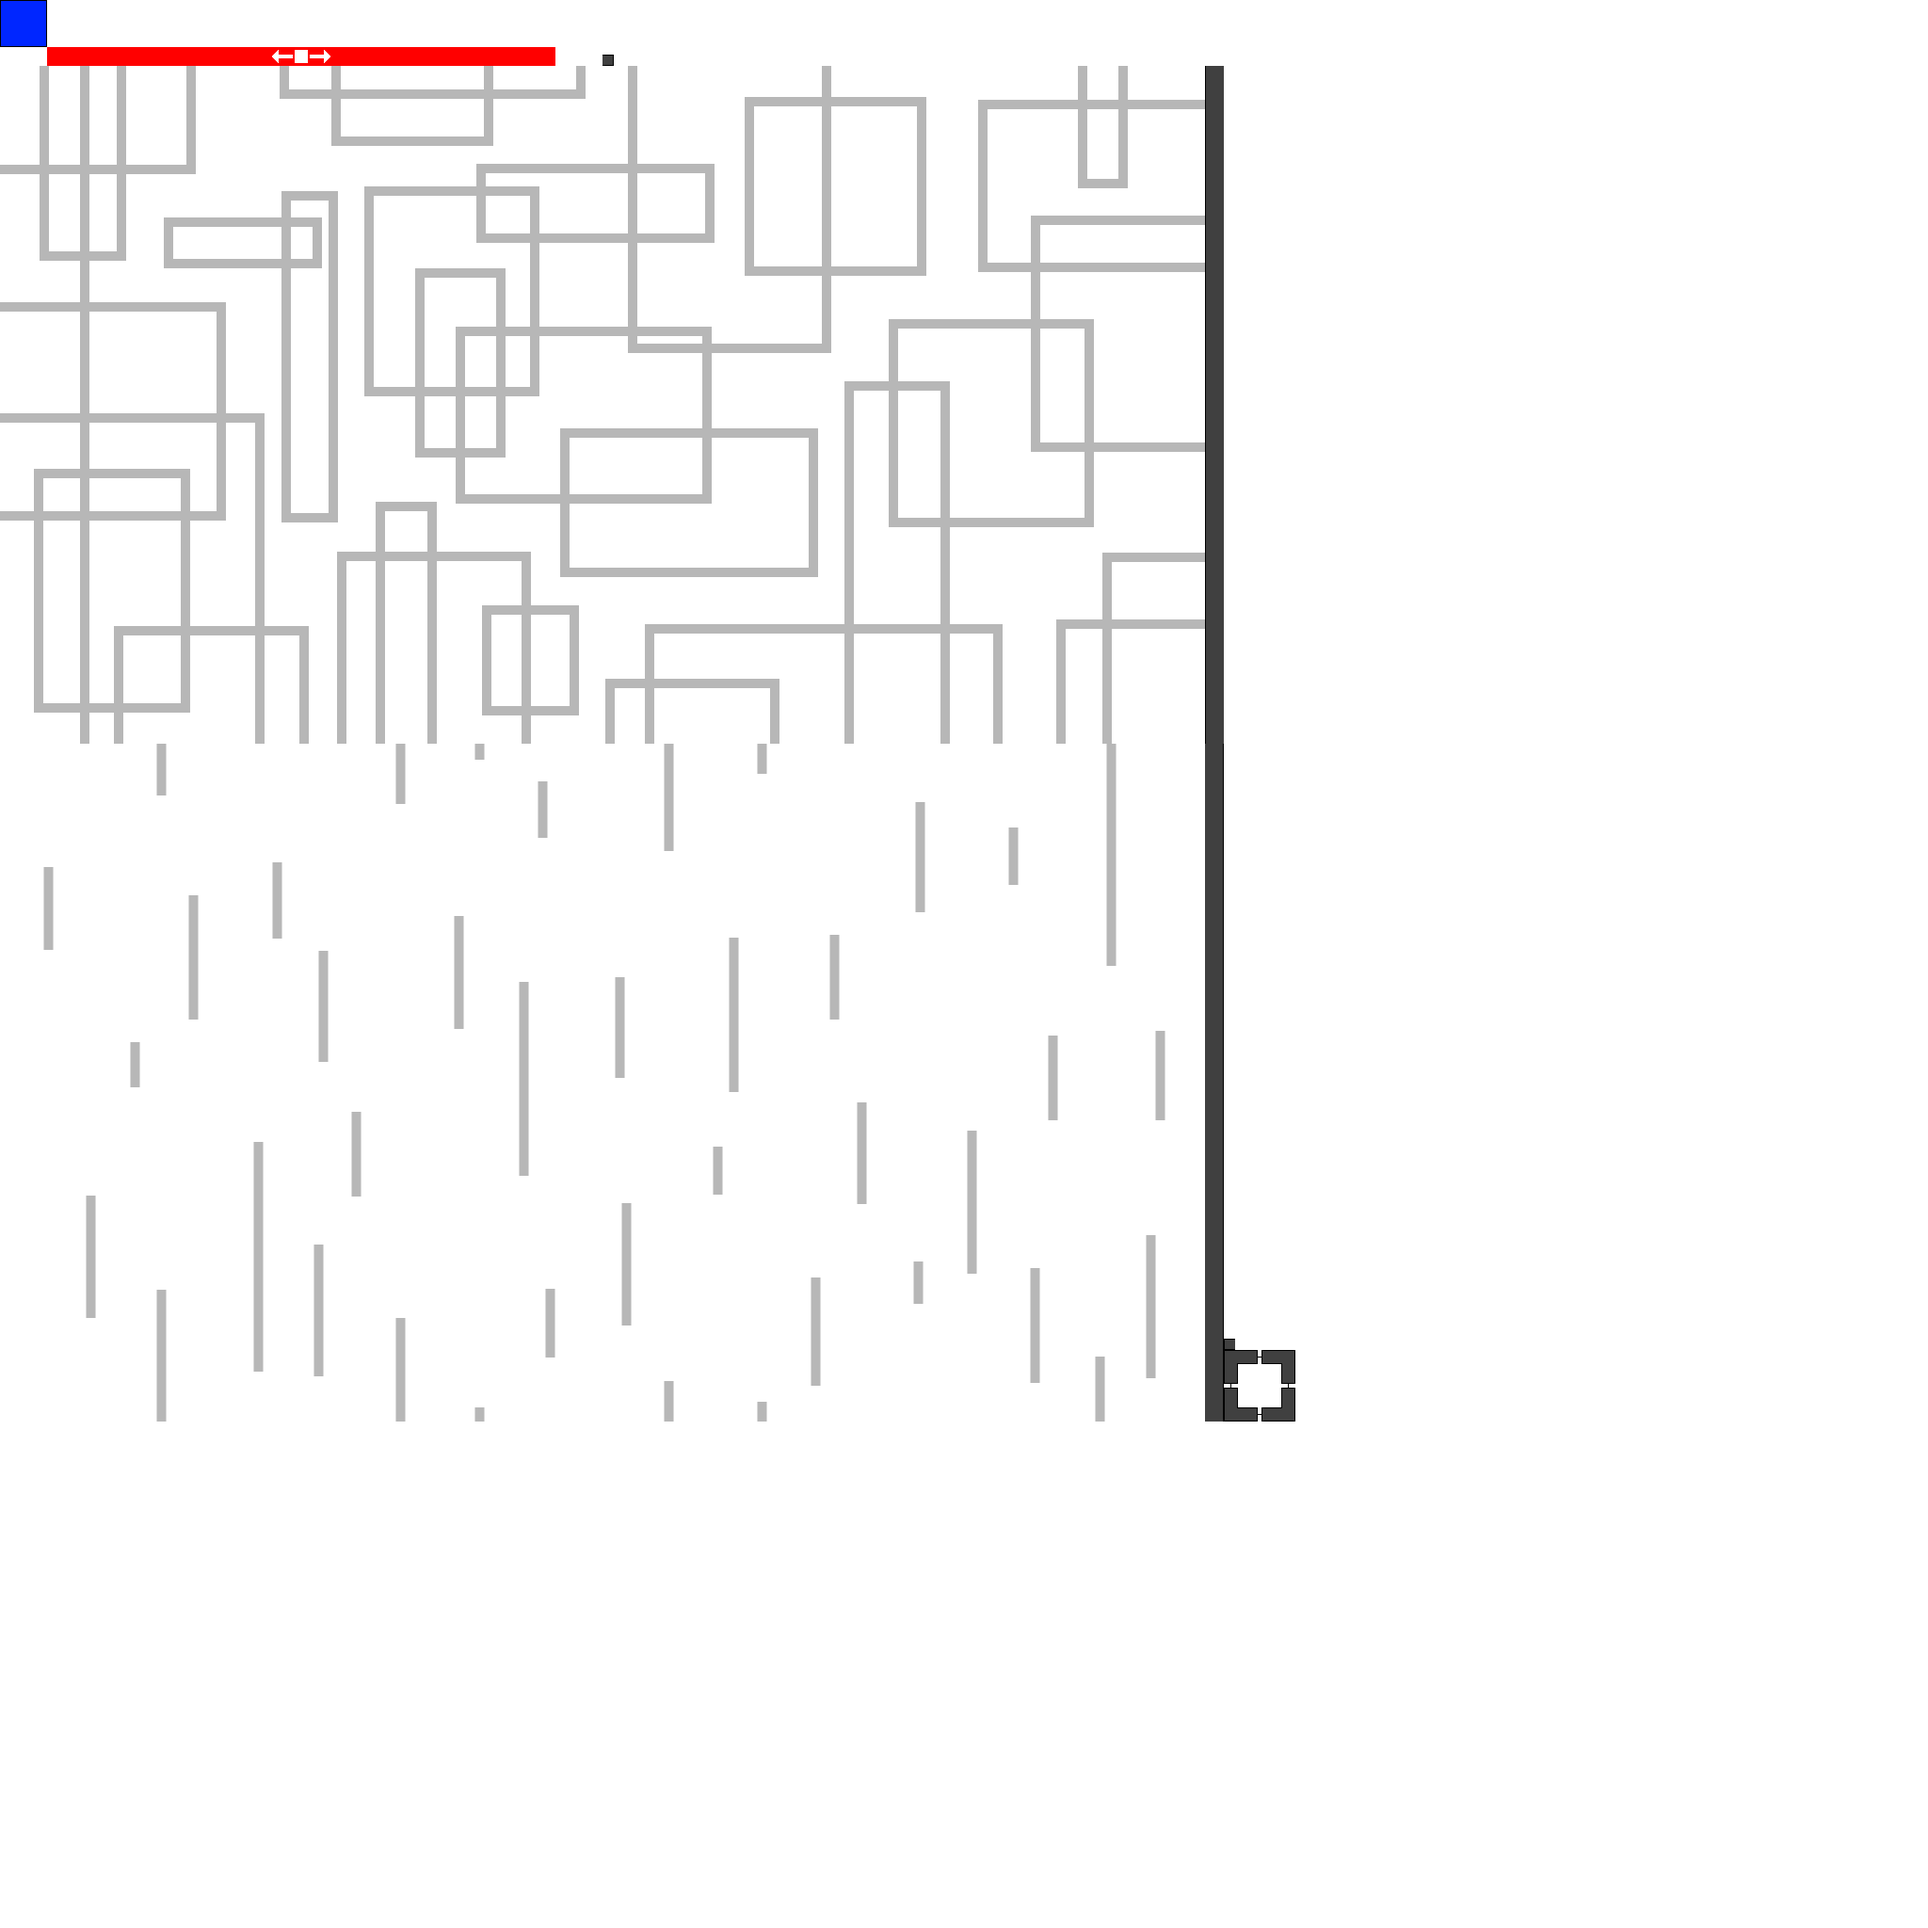
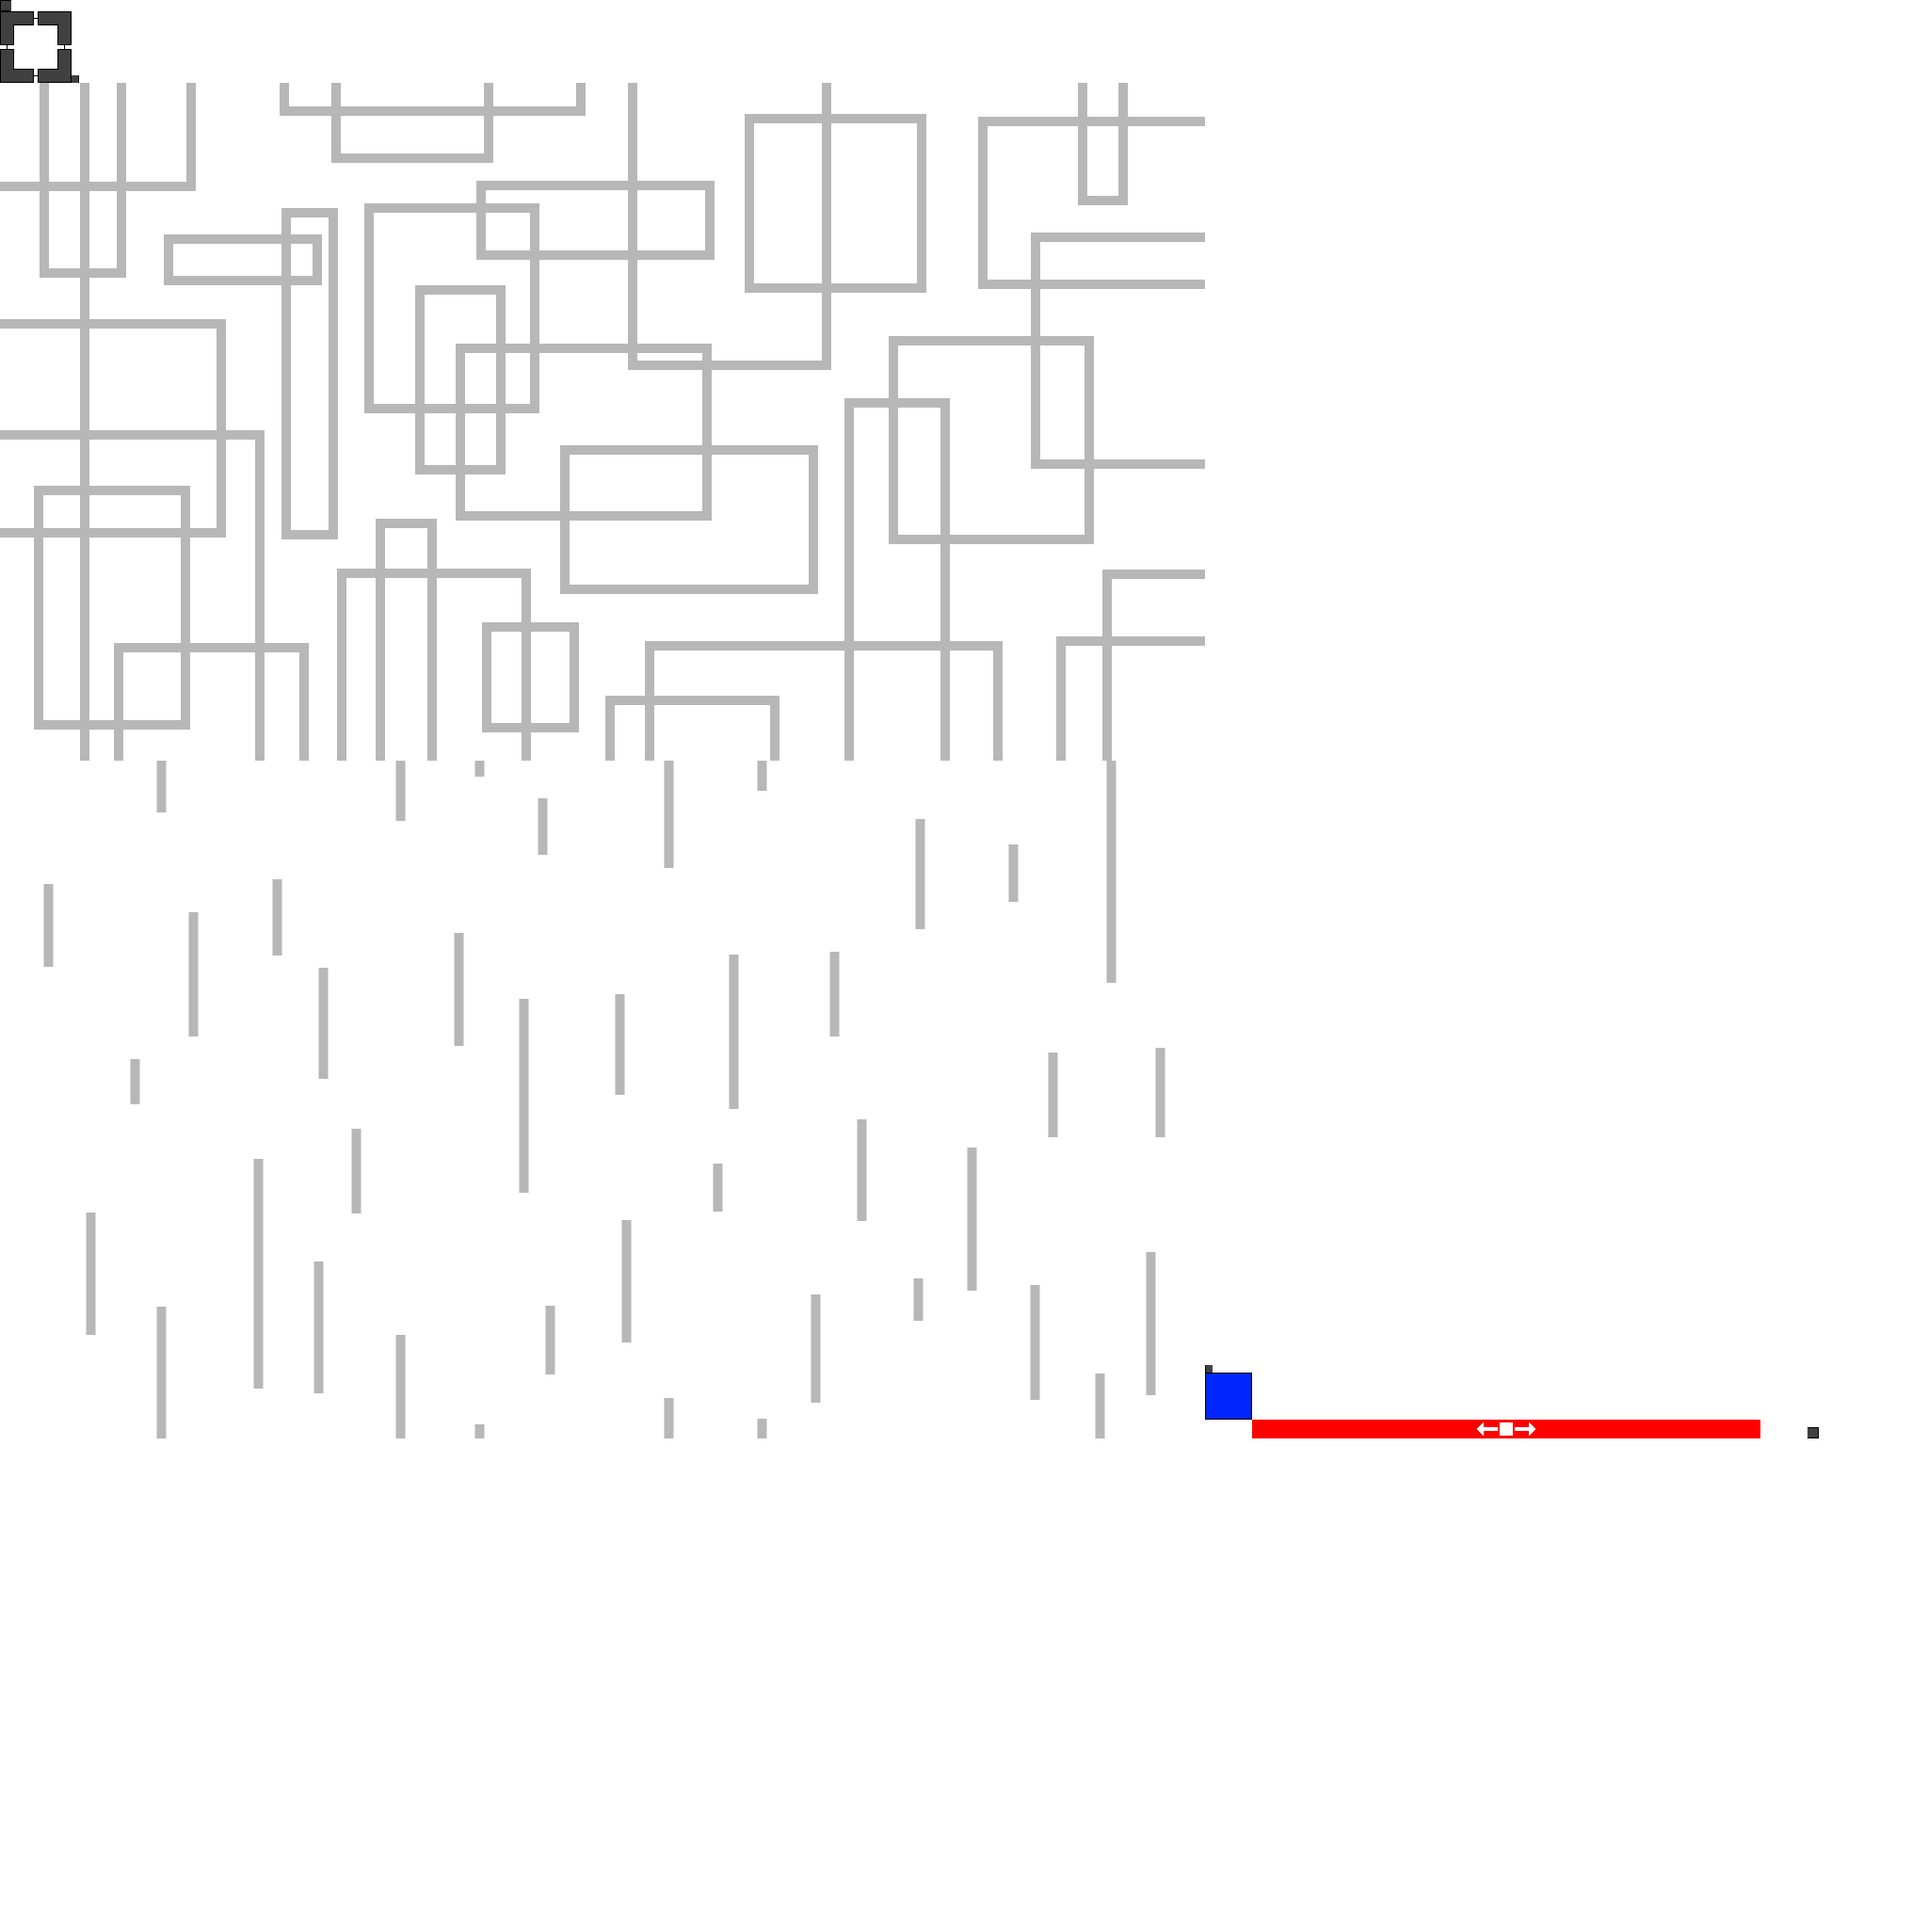
Make Walls a NinePatch. Fix Obstacle Width

Changed region(s): [[0.0, 0.0, 0.9062, 0.75], [0.0312, 0.3125, 0.1562, 0.4062]]

diff --git a/core/src/net/vladimir/multiframe/modes/dualframe/DualFrame.java b/core/src/net/vladimir/multiframe/modes/dualframe/DualFrame.java
@@ -1,6 +1,7 @@
 package net.vladimir.multiframe.modes.dualframe;
 
 import com.badlogic.gdx.assets.AssetManager;
+import com.badlogic.gdx.graphics.g2d.NinePatch;
 import com.badlogic.gdx.graphics.g2d.SpriteBatch;
 import com.badlogic.gdx.graphics.g2d.TextureAtlas;
 import com.badlogic.gdx.graphics.g2d.TextureRegion;
@@ -17,15 +18,15 @@ public class DualFrame extends Frame {
     private DualFrameData data;
 
     private TextureRegion selectorTexture;
-    private TextureRegion wallLeftTexture;
-    private TextureRegion wallRightTexture;
+    private NinePatch wallLeftTexture;
+    private NinePatch wallRightTexture;
 
     public DualFrame(int id, int x, int y, int width, int height, AssetManager assetManager, DualFrameData data) {
         super(id, x, y, width, height);
         TextureAtlas gameplayAtlas = assetManager.get(AssetDescriptors.GAMEPLAY_ATLAS);
         this.selectorTexture = gameplayAtlas.findRegion(RegionNames.SELECTOR);
-        this.wallLeftTexture = gameplayAtlas.findRegion(RegionNames.WALL_LEFT);
-        this.wallRightTexture = gameplayAtlas.findRegion(RegionNames.WALL_RIGHT);
+        this.wallLeftTexture = new NinePatch(gameplayAtlas.findRegion(RegionNames.WALL_LEFT), 2, 2, 2, 2);
+        this.wallRightTexture = new NinePatch(gameplayAtlas.findRegion(RegionNames.WALL_RIGHT), 2, 2, 2, 2);
         this.data = data;
     }
 
@@ -37,8 +38,8 @@ public class DualFrame extends Frame {
     @Override
     public void render(SpriteBatch batch, float delta) {
         super.render(batch, delta);
-        batch.draw(wallLeftTexture, getX(), getY(), data.wallWidth, getHeight());
-        batch.draw(wallRightTexture, getX()+getWidth()-data.wallWidth, getY(), data.wallWidth, getHeight());
+        wallLeftTexture.draw(batch, getX(), getY(), data.wallWidth, getHeight());
+        wallRightTexture.draw(batch, getX()+getWidth()-data.wallWidth, getY(), data.wallWidth, getHeight());
         if(isInFocus()) {
             batch.draw(selectorTexture, getX(), getY()+getHeight()-20, getWidth(), 20);
         }

diff --git a/core/src/net/vladimir/multiframe/entity/EntityHorizontalObstacle.java b/core/src/net/vladimir/multiframe/entity/EntityHorizontalObstacle.java
@@ -49,7 +49,7 @@ public class EntityHorizontalObstacle extends EntityObstacle {
         int mid = MathUtils.random(obstacleGap/2, frame.getWidth()-2*wallWidth-obstacleGap/2);
 
         left = new Rectangle(wallWidth, y, mid-obstacleGap/2, obstacleHeight);
-        right = new Rectangle(wallWidth+mid+obstacleGap/2, y, frame.getWidth()-mid-obstacleGap/2, obstacleHeight);
+        right = new Rectangle(wallWidth+mid+obstacleGap/2, y, frame.getWidth()-mid-2*wallWidth-obstacleGap/2, obstacleHeight);
 
         setPosition(new Vector2(wallWidth, y));
 
